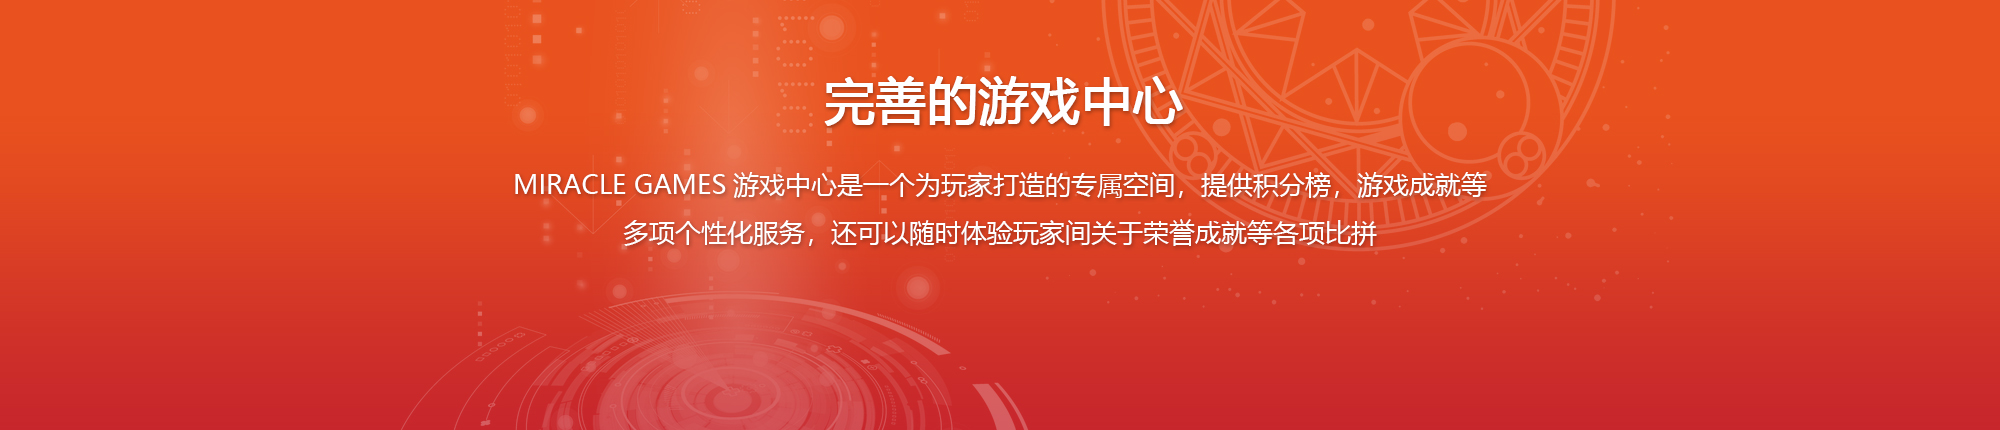
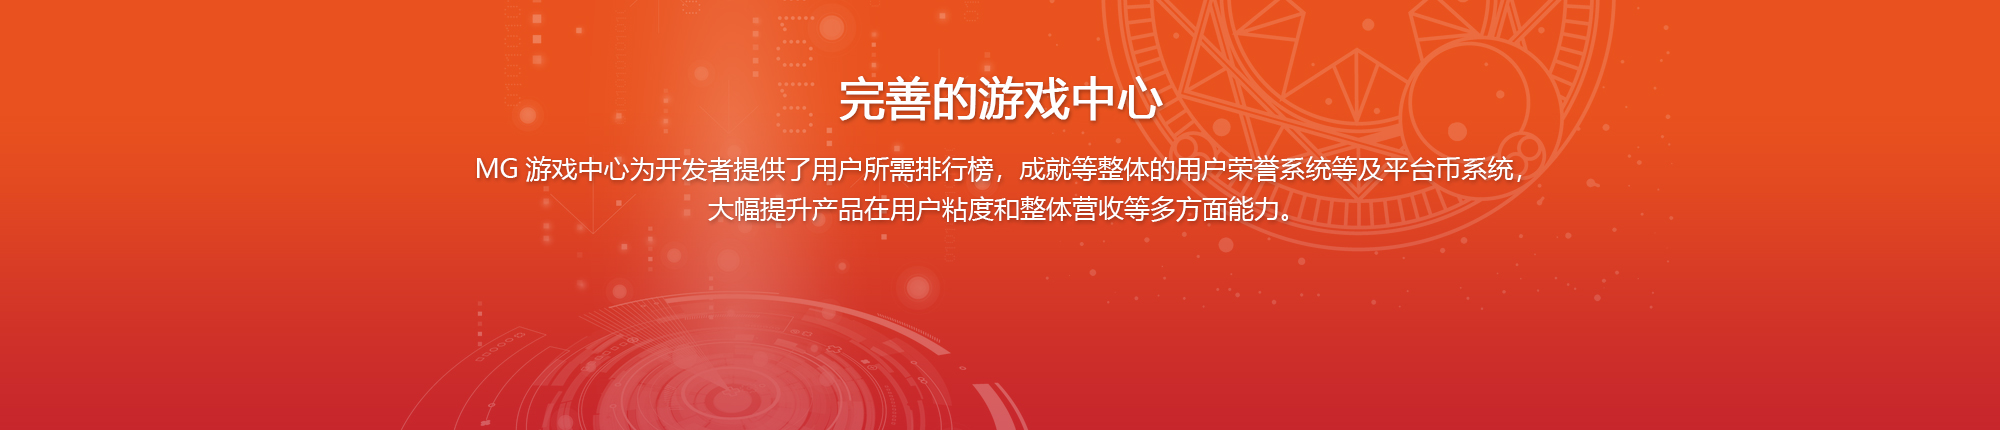
presh

Changed region(s): [[0.217, 0.3628, 0.775, 0.5744], [0.403, 0.1814, 0.589, 0.3023]]

diff --git a/PC/game.html b/PC/game.html
@@ -152,86 +152,85 @@
 
 <!--中心内容-->
 <div class="index-main">
-    <!--产品特点-->
+    <!--产品特色-->
     <div class="main-container-40">
         <!--小标题-->
         <div class="main-titleBox main-titleBoxS">
             <div class="main-mod-left"></div>
-            <h1 class="main-title main-titleS">产品特点</h1>
-            <div class="main-mod-right"></div>
-        </div>
-        <!--内容-->
-        <div class="sdkBox">
-            <ul class="sdkCharBox sdkCharBox-twoTerms">
-                <li class="sdkChar">
-                    <img src="images/page/sdkIcon-game1.png">
-                    <p>积分榜系统</p>
-                </li>
-                <li class="sdkChar">
-                    <img src="images/page/sdkIcon-game2.png">
-                    <p>成就系统</p>
-                </li>
-            </ul>
-            <div class="sdkDesBox">
-                <div class="sdkDesTxt">
-                    <h2>积分榜系统</h2>
-                    <p>玩家获得单款应用或者游戏的积分后，是可以通过游戏中心，看到自己在该产品中所有玩家的积分榜排名的，也能了解其他用户的积分情况</p>
-                    <!--<a href="#" class="sdkDesMore">了解更多</a>-->
-                </div>
-                <div class="sdkDesIcon">
-                    <img src="images/page/sdkDesIcon-game.png">
-                </div>
-            </div>
-        </div>
-    </div>
-    <!--应用场景-->
-    <div class="sdkSceBox">
-        <!--小标题-->
-        <div class="main-titleBox main-titleBoxS">
-            <div class="main-mod-left"></div>
-            <h1 class="main-title main-titleS">应用场景</h1>
+            <h1 class="main-title main-titleS">产品特色</h1>
             <div class="main-mod-right"></div>
         </div>
         <!--内容-->
         <div>
             <!--第一排-->
-            <div class="sdkSceItem">
-                <div class="sdkSceTxt">
-                    <h2>全球应用产品</h2>
-                    <p>为全球开发者提供单款应用中成就系统，让全球用户在日常使用应用类产品的同时，也可以达到某些成就，加强用户对于应用产品的长期使用习惯，大幅提高用户粘度。</p>
-                    <!--<a class="sdkSceMore">了解更多</a>-->
+            <div class="sdkSerItem">
+                <!--左边-->
+                <div class="sdkSerFlo-L sdkSerImgBox">
+                    <div class="sdkSerBgDec sdkGameSpec-p0 sdkSerImg-txtL">
+                        <img src="images/page/sdkDecLeft.png">
+                    </div>
+                    <div class="sdkSerImg sdkGameSpec-p10 sdkSerImg-txtL">
+                        <img src="images/page/sdk-game-img1.png">
+                    </div>
                 </div>
-
-                <div class="sdkSceImg">
-                    <img src="images/page/sdk-intelligent1.png">
-                    <div class="sdkSceImgDark"></div>
-                    <div class="sdkSceImgDark-dec">
-                        <span>全球应用产品</span>
+                <!--右边-->
+                <div class="sdkSerFlo-L sdkSerTxtBox">
+                    <h2>MG用户荣誉系统</h2>
+                    <p class="sdkSerExplain">
+                        MG荣誉系统提供给开发者完善的排行榜及成就等系统，重点帮助独立游戏和应用类产品实现用户的自我荣誉追求和用户间的荣辱比拼，大幅增强产品对于用户的粘度。
+                    </p>
+                    <h3>具体优势如下：</h3>
+                    <div class="sdkSerList">
+                        <div class="sdkSerList-dec"></div>
+                        <ul>
+                            <li>提升产品用户留存</li>
+                            <li>提升产品用户付费</li>
+                            <li>提升产品用户之间的比拼竞赛性</li>
+                            <li>提升产品用户自我价值感体验增强</li>
+                            <li>提升全球用户间的竞技比拼，大幅增强产品品质</li>
+                        </ul>
                     </div>
                 </div>
             </div>
             <!--修饰条-->
             <div class="sdkSce-decoration"></div>
             <!--第二排-->
-            <div class="sdkSceItem sdkSceItem-Rev">
-                <div class="sdkSceImg sdkSceImg-Rev">
-                    <img src="images/page/sdk-intelligent2.png">
-                    <div class="sdkSceImgDark"></div>
-                    <div class="sdkSceImgDark-dec">
-                        <span>全球游戏产品</span>
+            <div class="sdkSerItem">
+                <!--左边-->
+                <div class="sdkSerFlo-L sdkSerTxtBox">
+                    <h2>MG平台币系统</h2>
+                    <p class="sdkSerExplain">
+                        MG平台币基于自主研发技术，实现平台币与各大支付渠道的兑换互通，用户可以快速便捷的通过各种支付途径充值MG平台币，同时可以在Windows10，H5等不同版本的不同游戏中均可使用，为开发者和用户提供了全方位便捷化支付形式，同时大幅提升产品收益。
+                    </p>
+                    <h3>具体优势如下：</h3>
+                    <div class="sdkSerList">
+                        <div class="sdkSerList-dec"></div>
+                        <ul>
+                            <li>提升用户付费</li>
+                            <li>提升用户留存</li>
+                            <li>提升游戏间交叉推广</li>
+                            <li>提升用户支付成功率</li>
+                            <li>提升支付防御机制</li>
+                            <li>提升产品跨终端同步性</li>
+                            <li>提升用户多终端多游戏的选择性</li>
+                        </ul>
                     </div>
                 </div>
-
-                <div class="sdkSceTxt sdkSceTxt-Rev">
-                    <h2>全球游戏产品</h2>
-                    <p>为全球开发者提供积分系统及成就系统，主要应用于单机和弱联网游戏中，从而让用户之间有所互动，增加游戏中全球用户的竞争性，有效提供产品生命周期和整体收益。</p>
-                    <!--<a class="sdkSceMore">了解更多</a>-->
+                <!--右边-->
+                <div class="sdkSerFlo-L sdkSerImgBox">
+                    <div class="sdkSerImg sdkSerImg-txtR">
+                        <img src="images/page/sdk-game-img2.png">
+                    </div>
+                    <div class="sdkSerBgDec sdkSerImg-txtR">
+                        <img src="images/page/sdkDecRight.png">
+                    </div>
                 </div>
             </div>
+
         </div>
     </div>
     <!--快速接入-->
-    <div class="main-container-center">
+    <div class="main-container-40">
         <!--小标题-->
         <div class="main-titleBox main-titleBoxS">
             <div class="main-mod-left"></div>

diff --git a/PC/css/pageSDK.css b/PC/css/pageSDK.css
@@ -290,6 +290,15 @@
     height: 268px;
 }
 
+/*完善的游戏中心-第一项-左边的文字特殊化*/
+.sdkGameSpec-p0 {
+    padding-top: 0;
+}
+.sdkGameSpec-p10 {
+    padding-top: 10px;
+}
+
+
 .sdkSerImg-txtL {
     text-align: left;
 }

diff --git a/PC/social.html b/PC/social.html
@@ -152,7 +152,7 @@
 
 <!--中心内容-->
 <div class="index-main">
-    <!--产品特点-->
+    <!--产品特色-->
     <div class="main-container-40">
         <!--小标题-->
         <div class="main-titleBox main-titleBoxS">
